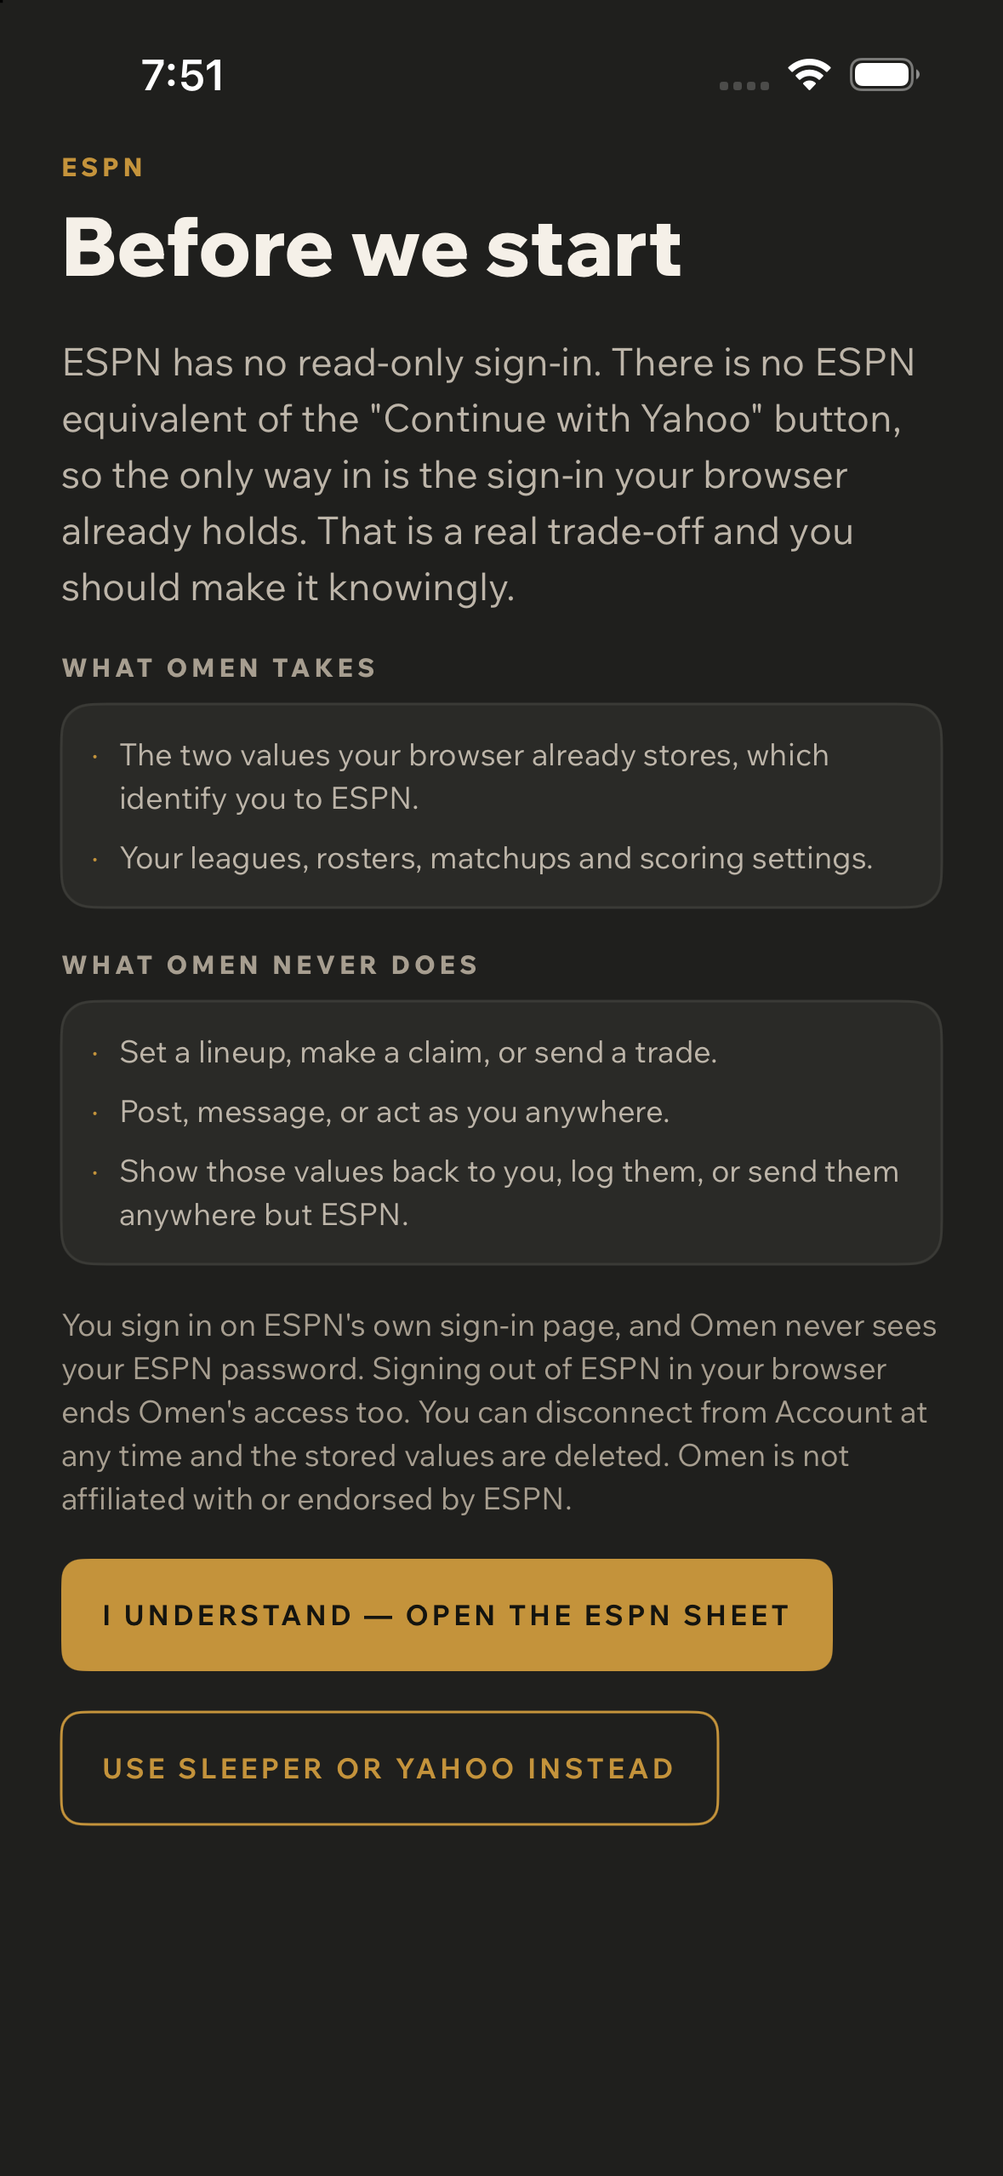
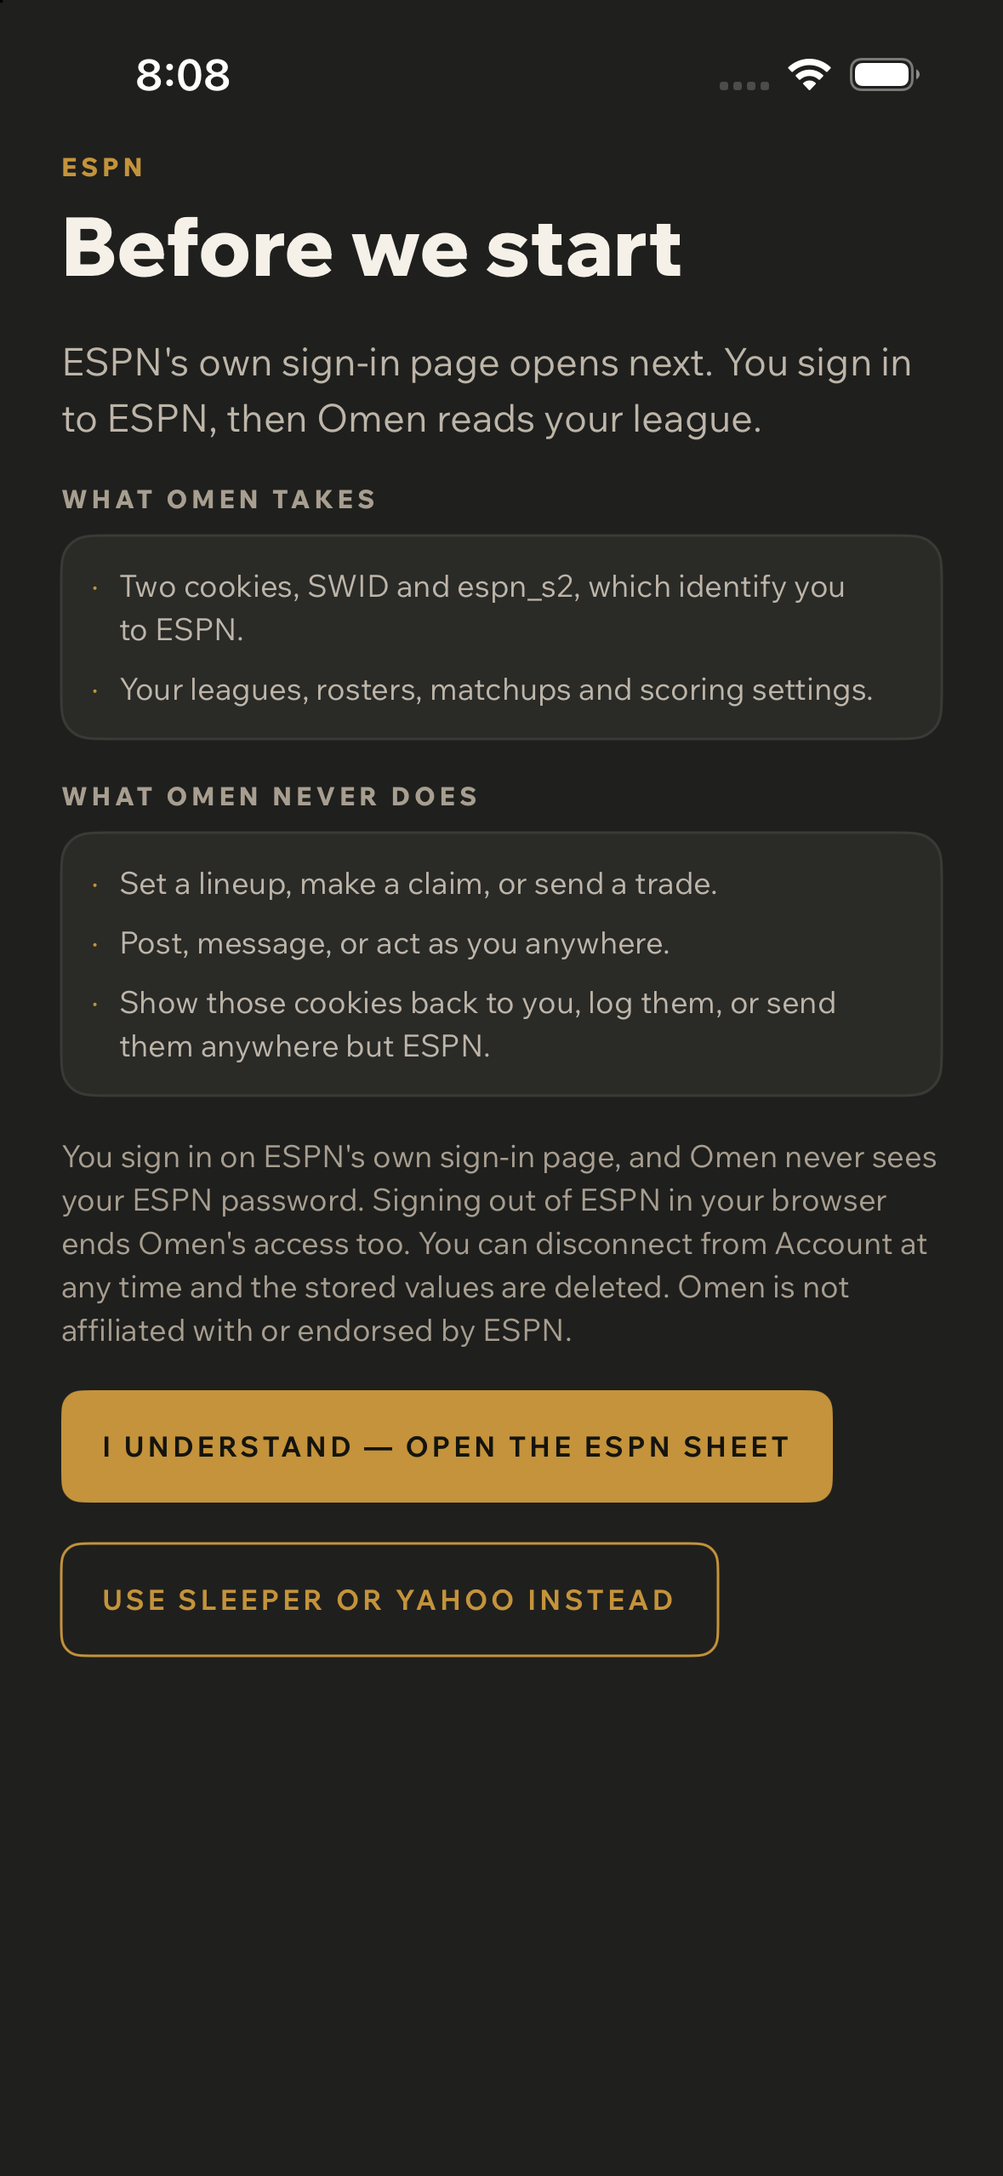
feat: name the ESPN cookies, and bring Android's sign-in and lockup level
Founder, 2026-09-19: name them. Transparency is how this app is being built,
so the consent screen says "Two cookies, SWID and espn_s2" outright, on both
platforms, exactly as EspnConnect.dc.html always drew it.

The credential-vocabulary ban still stands everywhere else, and the two
coexist on a distinction worth keeping sharp. Naming the FIELDS is disclosure
— a user cannot weigh handing something over if the screen will not say what
it is, and this screen exists precisely because the terms answer was No.
Showing the VALUES stays forbidden outright by fact-of-record #6. The ban
continues to cover every other ESPN surface, because naming a credential in a
progress message buys nothing and only raises the review surface.

A new test on each platform pins the decision so it cannot be quietly undone
in either direction: softening "SWID and espn_s2" back into "two values" fails
it, and so does a cookie value appearing anywhere in consent copy.

Android sign-in catches up: Discord and email become labelled full-width rows
instead of icon-only tiles, and the artboard's subline is added. Google keeps
the filled primary for the same reason Apple does on iOS — the platform's
first-party sign-in stays at least as prominent.

Android's lockup had the same black box iOS did, in a different form.
`omen_lockup_stacked.png` bakes an opaque #0A0A0B plate into the raster —
measured top-left RGBA [10,10,11,255]. Swapped to
[…]

diff --git a/mobile/android/app/src/main/kotlin/com/slopssaloon/omen/app/auth/OmenAuthFlow.kt b/mobile/android/app/src/main/kotlin/com/slopssaloon/omen/app/auth/OmenAuthFlow.kt
@@ -49,6 +49,7 @@ import com.slopssaloon.omen.R
 import com.slopssaloon.omen.core.auth.AuthFailure
 import com.slopssaloon.omen.core.auth.AuthFlowState
 import com.slopssaloon.omen.core.auth.OtpCodeValidator
+import com.slopssaloon.omen.core.designsystem.component.OmenAuthButtonVariant
 import com.slopssaloon.omen.core.designsystem.component.OmenAuthPrimaryButton
 import com.slopssaloon.omen.core.designsystem.component.OmenAuthTile
 import com.slopssaloon.omen.core.designsystem.component.OmenButton
@@ -194,7 +195,16 @@ private fun SignInFirstScreen(
                 .weight(1f),
         ) {
             Image(
-                painter = painterResource(id = R.drawable.omen_lockup_stacked),
+                // `omen_lockup_stacked.png` bakes an opaque #0A0A0B plate into the raster —
+                // measured top-left RGBA [10,10,11,255] — so it drew the same black box the iOS
+                // SVG did before its plate was removed. This asset is genuinely transparent
+                // ([0,0,0,0]) and is the only correct lockup in the tree.
+                //
+                // It is the HORIZONTAL lockup, so this is a composition change, not just an
+                // asset swap. Interim: the right fix is a transparent STACKED export from the
+                // Figma vector, which needs a rasteriser this machine does not have. Until
+                // then, correct-and-horizontal beats stacked-in-a-box.
+                painter = painterResource(id = R.drawable.omen_horizontal_lockup_transparent),
                 contentDescription = "Omen",
                 modifier = Modifier.widthIn(max = 300.dp),
             )
@@ -206,6 +216,15 @@ private fun SignInFirstScreen(
             color = OmenTheme.color.textSecondary,
             textAlign = TextAlign.Center,
             modifier = Modifier.fillMaxWidth().padding(horizontal = OmenTheme.spacing.step16),
+        )
+        Text(
+            text = "One call a week for every team you manage. Plain English, and it shows its work.",
+            style = OmenTheme.typography.bodySmall.toTextStyle(),
+            color = OmenTheme.color.textTertiary,
+            textAlign = TextAlign.Center,
+            modifier = Modifier
+                .fillMaxWidth()
+                .padding(horizontal = OmenTheme.spacing.step16, vertical = OmenTheme.spacing.step8),
         )
         if (!live) {
             Text(
@@ -234,51 +253,47 @@ private fun SignInFirstScreen(
                     state is AuthFlowState.ExchangingGoogleToken,
             )
 
-            Row(
-                horizontalArrangement = Arrangement.spacedBy(OmenTheme.spacing.step12),
-                modifier = Modifier.fillMaxWidth(),
-            ) {
-                if (discordConfigured) {
-                    OmenAuthTile(
-                        contentDescription = "Continue with Discord",
-                        onClick = onDiscord,
-                        enabled = state !is AuthFlowState.LaunchingOAuth &&
-                            state !is AuthFlowState.ExchangingOAuthCode,
-                        loading = state is AuthFlowState.LaunchingOAuth ||
-                            state is AuthFlowState.ExchangingOAuthCode,
-                        modifier = Modifier.weight(1f).height(54.dp),
-                    ) {
+            // `SignIn.dc.html` draws four labelled full-width rows. These were icon-only tiles,
+            // which is worse on its own terms: an unlabelled glyph makes the user infer the
+            // provider, and it gives TalkBack nothing the eye has. iOS made the same change.
+            if (discordConfigured) {
+                OmenAuthPrimaryButton(
+                    text = "Continue with Discord",
+                    onClick = onDiscord,
+                    enabled = state !is AuthFlowState.LaunchingOAuth &&
+                        state !is AuthFlowState.ExchangingOAuthCode,
+                    loading = state is AuthFlowState.LaunchingOAuth ||
+                        state is AuthFlowState.ExchangingOAuthCode,
+                    variant = OmenAuthButtonVariant.Secondary,
+                    icon = {
                         Icon(
                             painter = painterResource(id = R.drawable.ic_auth_discord),
                             contentDescription = null,
                             tint = Color.Unspecified,
                             modifier = Modifier.size(19.dp),
                         )
-                    }
-                }
-                OmenAuthTile(
-                    contentDescription = "Continue with email",
-                    onClick = onShowEmailEntry,
-                    enabled = state !is AuthFlowState.RequestingOtp,
-                    modifier = Modifier.weight(1f).height(54.dp),
-                ) {
+                    },
+                    modifier = Modifier.fillMaxWidth(),
+                )
+            }
+            OmenAuthPrimaryButton(
+                text = "Continue with email",
+                onClick = onShowEmailEntry,
+                enabled = state !is AuthFlowState.RequestingOtp,
+                variant = OmenAuthButtonVariant.Secondary,
+                icon = {
                     Icon(
                         painter = painterResource(id = R.drawable.ic_auth_email),
                         contentDescription = null,
-                        // Tinted, unlike the Discord and Google marks beside it. Those are brand
-                        // logos and must keep their own colours (`Color.Unspecified`); this is a
-                        // plain UI glyph whose asset bakes in the cream `#F5F0E8`, so on a light
-                        // tile it was cream-on-white and all but invisible. It only became
-                        // visible when this screen's hardcoded near-black background literal was
-                        // replaced with the trait-aware `bg` token in the same 2026-09-07 pass —
-                        // the hex is deliberately not written out here, because the enforcement
-                        // scanner matches the literal by pattern and cannot tell prose from code —
-                        // before that the screen forced itself dark and the bug could not show.
+                        // Tinted, unlike the Discord and Google marks. Those are brand logos and
+                        // keep their own colours; this is a plain UI glyph whose asset bakes in
+                        // cream, so it needs the theme's foreground to stay visible.
                         tint = OmenTheme.color.textPrimary,
                         modifier = Modifier.size(19.dp),
                     )
-                }
-            }
+                },
+                modifier = Modifier.fillMaxWidth(),
+            )
 
             if (showEmailEntry) {
                 EmailEntry(

diff --git a/mobile/ios/OmenIOS/OmenIOSTests/ConnectFlowTests.swift b/mobile/ios/OmenIOS/OmenIOSTests/ConnectFlowTests.swift
@@ -56,6 +56,31 @@ final class ConnectFlowTests: XCTestCase {
         XCTAssertNil(viewModel.espnCookieStore)
     }
 
+    /// The founder's 2026-09-19 transparency call, pinned so it cannot be quietly undone in
+    /// either direction.
+    ///
+    /// The consent screen must **name** the two cookies, and must still promise never to show
+    /// their values. A future edit that softens "SWID and espn_s2" back into "two values" loses
+    /// the disclosure; one that prints an actual value breaks fact-of-record #6. Both fail here.
+    func testEspnConsentNamesTheCookiesAndNeverTheirValues() {
+        let takes = EspnHandoffCopy.consentTakes.joined(separator: " ")
+        XCTAssertTrue(takes.contains("SWID"), "consent must name the cookie, not hint at it")
+        XCTAssertTrue(takes.contains("espn_s2"), "consent must name the cookie, not hint at it")
+
+        // The promise that makes naming them safe.
+        let never = EspnHandoffCopy.consentNever.joined(separator: " ").lowercased()
+        XCTAssertTrue(never.contains("show those cookies back to you"))
+        XCTAssertTrue(never.contains("log them"))
+
+        // A cookie VALUE is never copy. These are the shapes a real one takes.
+        for leaked in ["{", "}", "AEB", "%7B"] {
+            XCTAssertFalse(
+                EspnHandoffCopy.consentAllCopy.contains(leaked),
+                "a cookie value must never appear in consent copy: \(leaked)"
+            )
+        }
+    }
+
     /// The consent sentence is what App Review reads. It must name who the user signs in to, and
     /// carry the non-affiliation disclaimer Disney's ToU §2.B.vii requires.
     func testEspnConsentCopySaysWhoTheUserSignsInToAndDisclaimsAffiliation() {
@@ -575,11 +600,17 @@ final class ConnectFlowTests: XCTestCase {
                         EspnHandoffCopy.signInWaiting, EspnHandoffCopy.signInReady,
                         EspnHandoffCopy.signInConnectTitle, EspnHandoffCopy.signInFellBack]
             + EspnHandoffCopy.steps.flatMap { [$0.title, $0.detail] }
-            // Added 2026-09-19: the consent screen became two itemised lists, and a guardrail
-            // that only checked the old paragraph would have silently stopped covering the
-            // sentences most likely to name a credential.
-            + EspnHandoffCopy.consentTakes
-            + EspnHandoffCopy.consentNever
+
+        // `consentTakes` and `consentNever` are **deliberately excluded** from the ban.
+        //
+        // Founder, 2026-09-19: name the cookies. The consent screen says "Two cookies, SWID and
+        // espn_s2" because a user cannot weigh handing something over if the screen will not say
+        // what it is — and this screen exists precisely because the ESPN terms answer was No.
+        // Transparency is the posture the product is built on.
+        //
+        // The ban still covers every other surface, and the distinction is the point: naming the
+        // **fields** is disclosure, showing their **values** is forbidden outright by
+        // fact-of-record #6. `testEspnConsentNamesTheCookiesAndNeverTheirValues` holds that line.
 
         for copy in surfaces {
             let lowered = copy.lowercased()

diff --git a/mobile/ios/OmenIOS/OmenIOS/App/Connect/ConnectFlow.swift b/mobile/ios/OmenIOS/OmenIOS/App/Connect/ConnectFlow.swift
@@ -328,14 +328,22 @@ enum EspnHandoffCopy {
     /// the specific thing `W1-GATE` required when the founder accepted this risk — the terms
     /// answer was No, so the consent screen is carrying real weight rather than being a formality.
     ///
-    /// **OPEN, and deliberately not resolved here.** `EspnConnect.dc.html` names the mechanism
-    /// outright — "Two cookies, SWID and espn_s2". `ConnectFlowTests`
-    /// `testEspnHandoffCopyNeverUsesCredentialVocabulary` bans exactly those words from every
-    /// ESPN store-facing surface, because App Review reads this screen. Both positions are
-    /// defensible: naming the mechanism is stronger consent, and the ban is store-risk
-    /// management. This copy takes the ban's side pending a founder call, so it says "the two
-    /// values your browser already stores" instead. The structure is the artboard's; only the
-    /// vocabulary is held back.
+    /// **RESOLVED by the founder 2026-09-19: name them.** The consent screen says "Two cookies,
+    /// SWID and espn_s2" outright, as `EspnConnect.dc.html` always drew it.
+    ///
+    /// The credential-vocabulary ban still stands **everywhere else**, and the reason the two can
+    /// coexist is a distinction worth keeping sharp:
+    ///
+    /// - **Naming the fields is disclosure.** The user is being asked to hand over a specific
+    ///   thing, and they cannot weigh that if the screen will not say what it is. This screen
+    ///   exists precisely because the terms answer was No, so vagueness here would be the one
+    ///   place it actually costs something.
+    /// - **Showing the values is still absolutely forbidden** — fact-of-record #6, no exceptions.
+    ///   A cookie value is never displayed, logged, echoed, or sent anywhere but ESPN, and this
+    ///   screen promises exactly that in the list below.
+    ///
+    /// The ban continues to cover every other ESPN surface, because naming a credential in a
+    /// progress message or an error buys nothing and only raises the review surface.
     /// Says what is about to happen, and stops.
     ///
     /// The previous version explained *why* ESPN is different and compared it to Yahoo's button.
@@ -347,14 +355,14 @@ enum EspnHandoffCopy {
     """
     static let consentTakesTitle = "What Omen takes"
     static let consentTakes = [
-        "The two values your browser already stores, which identify you to ESPN.",
+        "Two cookies, SWID and espn_s2, which identify you to ESPN.",
         "Your leagues, rosters, matchups and scoring settings."
     ]
     static let consentNeverTitle = "What Omen never does"
     static let consentNever = [
         "Set a lineup, make a claim, or send a trade.",
         "Post, message, or act as you anywhere.",
-        "Show those values back to you, log them, or send them anywhere but ESPN."
+        "Show those cookies back to you, log them, or send them anywhere but ESPN."
     ]
     /// Kept from the shipped copy although the artboard omits it: the affiliation disclaimer is a
     /// binding `W1-GATE` constraint, not decoration.

diff --git a/mobile/android/app/src/test/kotlin/com/slopssaloon/omen/app/feature/connect/EspnConnectFlowTest.kt b/mobile/android/app/src/test/kotlin/com/slopssaloon/omen/app/feature/connect/EspnConnectFlowTest.kt
@@ -73,6 +73,27 @@ class EspnConnectFlowTest {
         assertNull(viewModel.espnCookieReader)
     }
 
+    /**
+     * The founder's 2026-09-19 transparency call, pinned so it cannot be quietly undone either
+     * way. The screen must name the two cookies and must still promise never to show their
+     * values: softening the names loses the disclosure, printing a value breaks
+     * fact-of-record #6. iOS mirror: `testEspnConsentNamesTheCookiesAndNeverTheirValues`.
+     */
+    @Test
+    fun `consent names the cookies and never their values`() {
+        val takes = EspnHandoffCopy.CONSENT_TAKES.joinToString(" ")
+        assertTrue(takes.contains("SWID"))
+        assertTrue(takes.contains("espn_s2"))
+
+        val never = EspnHandoffCopy.CONSENT_NEVER.joinToString(" ").lowercase()
+        assertTrue(never.contains("show those cookies back to you"))
+        assertTrue(never.contains("log them"))
+
+        for (leaked in listOf("{", "}", "AEB", "%7B")) {
+            assertFalse(EspnHandoffCopy.CONSENT_ALL_COPY.contains(leaked))
+        }
+    }
+
     /** The consent sentence is what App Review reads, on both stores. */
     @Test
     fun `consent copy names who the user signs in to and disclaims affiliation`() {
@@ -94,10 +115,12 @@ class EspnConnectFlowTest {
             EspnHandoffCopy.CONSENT_LEAD, EspnHandoffCopy.CONSENT_FOOTER,
             EspnHandoffCopy.CONSENT_TAKES_TITLE, EspnHandoffCopy.CONSENT_NEVER_TITLE,
             EspnHandoffCopy.CONSENT_DECLINE,
-            // The consent screen became two itemised lists; a guardrail that only checked the
-            // old paragraph would have stopped covering the sentences most likely to name one.
-            *EspnHandoffCopy.CONSENT_TAKES.toTypedArray(),
-            *EspnHandoffCopy.CONSENT_NEVER.toTypedArray(),
+            // CONSENT_TAKES and CONSENT_NEVER are deliberately excluded. Founder, 2026-09-19:
+            // name the cookies. A user cannot weigh handing something over if the screen will
+            // not say what it is, and this screen exists because the ESPN terms answer was No.
+            // The ban still covers every other surface — naming the fields is disclosure,
+            // showing their values is forbidden by fact-of-record #6. See
+            // `consent names the cookies and never their values`.
             EspnHandoffCopy.CONSENT_CONTINUE, EspnHandoffCopy.SIGN_IN_WAITING,
             EspnHandoffCopy.SIGN_IN_READY, EspnHandoffCopy.SIGN_IN_CONNECT,
             EspnHandoffCopy.NO_LEAGUES_FOUND, EspnHandoffCopy.DISCOVERY_UNAVAILABLE,

diff --git a/mobile/android/core/designsystem/src/main/kotlin/com/slopssaloon/omen/core/designsystem/component/OmenAuthPrimitives.kt b/mobile/android/core/designsystem/src/main/kotlin/com/slopssaloon/omen/core/designsystem/component/OmenAuthPrimitives.kt
@@ -53,6 +53,8 @@ import com.slopssaloon.omen.core.designsystem.theme.OmenTheme
  * adding both to a primitive used on every other screen — a wider change than this move, and its
  * own decision. iOS mirror: `OmenAuthPrimaryButton`.
  */
+enum class OmenAuthButtonVariant { Primary, Secondary }
+
 @Composable
 fun OmenAuthPrimaryButton(
     text: String,
@@ -61,14 +63,31 @@ fun OmenAuthPrimaryButton(
     enabled: Boolean = true,
     loading: Boolean = false,
     icon: (@Composable () -> Unit)? = null,
+    /**
+     * `SignIn.dc.html` draws every provider button as an equal `surface-1` row with a centred
+     * label, not one filled primary over icon-only tiles. `Secondary` is that treatment.
+     *
+     * Google keeps `Primary` on Android for the same reason Apple does on iOS: the platform's
+     * first-party sign-in stays at least as prominent as the alternatives.
+     * iOS mirror: `OmenAuthButtonVariant`.
+     */
+    variant: OmenAuthButtonVariant = OmenAuthButtonVariant.Primary,
 ) {
     Button(
         onClick = onClick,
         enabled = enabled && !loading,
         shape = RoundedCornerShape(10.dp),
         colors = ButtonDefaults.buttonColors(
-            containerColor = OmenTheme.color.textPrimary,
-            contentColor = OmenTheme.color.textOnAccent,
+            containerColor = if (variant == OmenAuthButtonVariant.Primary) {
+                OmenTheme.color.textPrimary
+            } else {
+                OmenTheme.color.surface1
+            },
+            contentColor = if (variant == OmenAuthButtonVariant.Primary) {
+                OmenTheme.color.textOnAccent
+            } else {
+                OmenTheme.color.textPrimary
+            },
             disabledContainerColor = OmenTheme.color.surface3,
             disabledContentColor = OmenTheme.color.textTertiary,
         ),

diff --git a/mobile/android/app/src/main/kotlin/com/slopssaloon/omen/app/feature/connect/ConnectFlow.kt b/mobile/android/app/src/main/kotlin/com/slopssaloon/omen/app/feature/connect/ConnectFlow.kt
@@ -308,14 +308,14 @@ object EspnHandoffCopy {
         "ESPN's own sign-in page opens next. You sign in to ESPN, then Omen reads your league."
     const val CONSENT_TAKES_TITLE = "What Omen takes"
     val CONSENT_TAKES = listOf(
-        "The two values your browser already stores, which identify you to ESPN.",
+        "Two cookies, SWID and espn_s2, which identify you to ESPN.",
         "Your leagues, rosters, matchups and scoring settings.",
     )
     const val CONSENT_NEVER_TITLE = "What Omen never does"
     val CONSENT_NEVER = listOf(
         "Set a lineup, make a claim, or send a trade.",
         "Post, message, or act as you anywhere.",
-        "Show those values back to you, log them, or send them anywhere but ESPN.",
+        "Show those cookies back to you, log them, or send them anywhere but ESPN.",
     )
     const val CONSENT_FOOTER =
         "You sign in on ESPN's own sign-in page, and Omen never sees your ESPN password. " +
